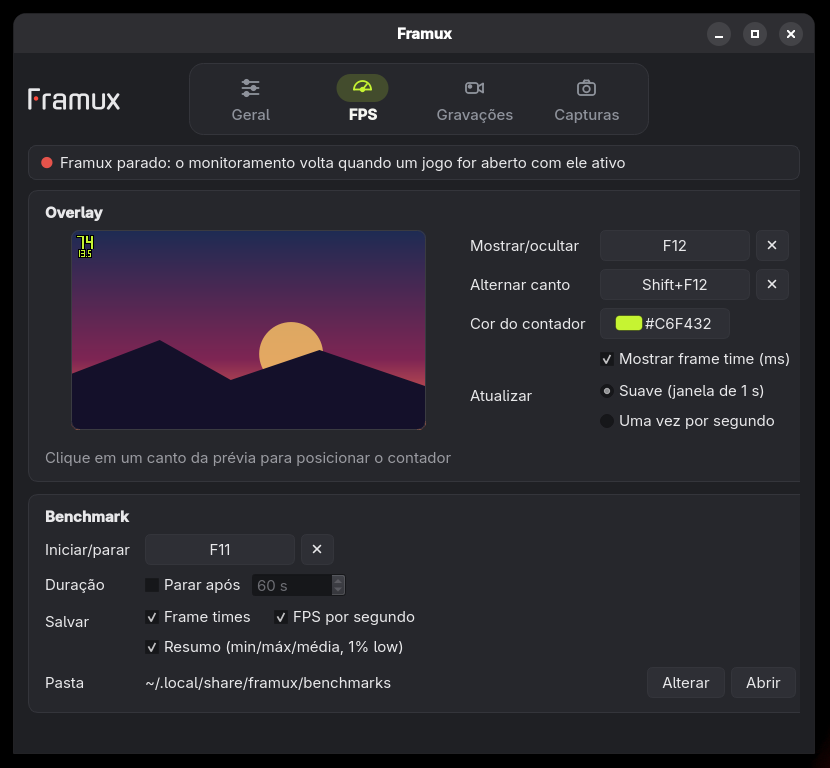
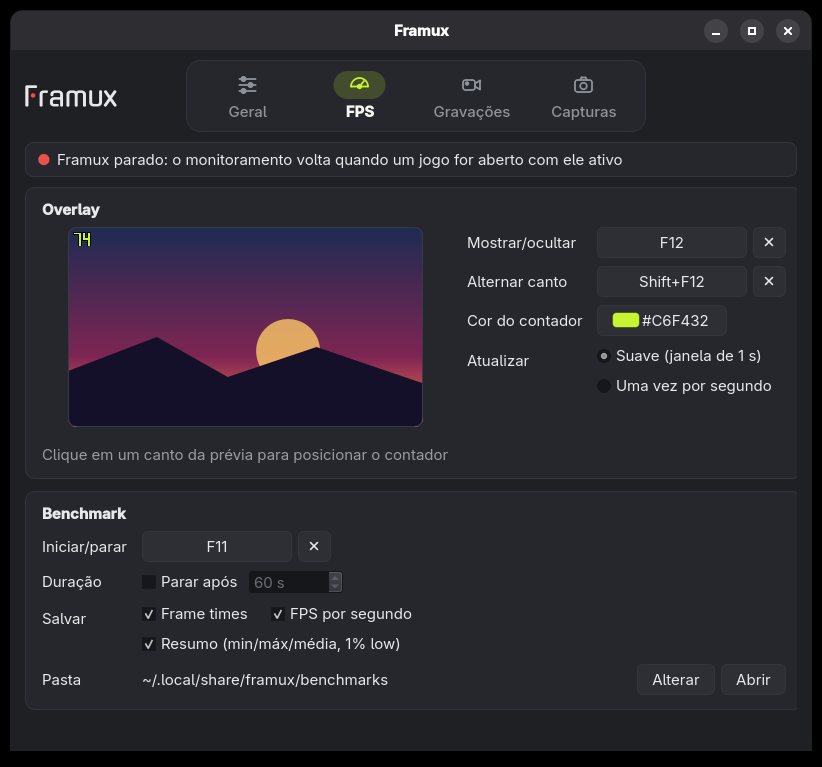
docs: documenta a gravação do microfone e atualiza as capturas da janela

diff --git a/README.md b/README.md
@@ -85,7 +85,7 @@
     <td width="50%" valign="top">
       <img src="assets/images/framux-gravacoes.png" alt="Aba Gravações, com codificador, qualidade, estimativa de taxa e gravações recentes" width="100%">
       <h3>Gravação moderna</h3>
-      AV1 ou H.264 pela placa de vídeo, SVT-AV1 ou x264 pelo processador, ou Ut Video sem perda. MKV que sobrevive a travamentos, MP4 por remux e o áudio <i>só</i> do jogo, via PipeWire.
+      AV1 ou H.264 pela placa de vídeo, SVT-AV1 ou x264 pelo processador, ou Ut Video sem perda. MKV que sobrevive a travamentos, MP4 por remux, o áudio <i>só</i> do jogo e o microfone, via PipeWire.
     </td>
     <td width="50%" valign="top">
       <img src="assets/images/framux-capturas.png" alt="Aba Capturas, com formato, qualidade, série automática e miniaturas" width="100%">
@@ -143,12 +143,12 @@ Tudo pode ser trocado na janela: clique no botão do atalho e pressione a tecla 
 
 ### A janela
 
-| Aba       | O que tem                                                                                                                                                                                                        |
-| --------- | ---------------------------------------------------------------------------------------------------------------------------------------------------------------------------------------------------------------- |
-| Geral     | modo automático, abrir ao entrar na sessão, iniciar minimizado, bandeja; à direita, o estado do ambiente e "Parar o Framux"                                                                                      |
-| FPS       | prévia clicável do canto do overlay, atalhos, cor do contador, frame time, modo de atualização; benchmark: atalho, duração, arquivos, pasta                                                                      |
-| Gravações | atalho, FPS do vídeo (30/60/outro), tamanho cheio ou metade, codificador (só os detectados nesta máquina; aviso quando usa o processador), qualidade, converter para MP4, pasta, som do jogo, gravações recentes |
-| Capturas  | atalho, formato (PNG/JPG/BMP/TGA) e qualidade, incluir contador, série a cada N s, pasta e miniaturas                                                                                                            |
+| Aba       | O que tem                                                                                                                                                                                                                                                                   |
+| --------- | --------------------------------------------------------------------------------------------------------------------------------------------------------------------------------------------------------------------------------------------------------------------------- |
+| Geral     | modo automático, abrir ao entrar na sessão, iniciar minimizado, bandeja; à direita, o estado do ambiente e "Parar o Framux"                                                                                                                                                 |
+| FPS       | prévia clicável do canto do overlay, atalhos, cor do contador, modo de atualização; benchmark: atalho, duração, arquivos, pasta                                                                                                                                             |
+| Gravações | atalho, FPS do vídeo (30/60/outro), tamanho cheio ou metade, codificador (só os detectados nesta máquina; aviso quando usa o processador), qualidade, converter para MP4, pasta, som do jogo e microfone (volumes, medidor de nível, trilhas separadas), gravações recentes |
+| Capturas  | atalho, formato (PNG/JPG/BMP/TGA) e qualidade, incluir contador, série a cada N s, pasta e miniaturas                                                                                                                                                                       |
 
 As alterações vão para o `config.toml` na hora e chegam aos jogos já abertos. Fechar a janela não para o monitoramento: com bandeja, o Framux fica no ícone (no GNOME, a bandeja exige a extensão AppIndicator).
 
@@ -180,7 +180,7 @@ framux config default                 # config padrão comentável
 
 ## Gravação
 
-Gravações em `$XDG_VIDEOS_DIR/framux/<jogo> AAAA-MM-DD HH-MM-SS-cc.mkv` (ou `.mp4` com _Converter para MP4_): vídeo em taxa constante e a trilha "Game" em Opus 48 kHz estéreo. O MKV é escrito durante a gravação, então sobrevive se o jogo travar; o MP4 é um remux dele ao parar, sem recodificar (Ut Video fica em MKV). Uma notificação mostra o arquivo, a duração e o tamanho.
+Gravações em `$XDG_VIDEOS_DIR/framux/<jogo> AAAA-MM-DD HH-MM-SS-cc.mkv` (ou `.mp4` com _Converter para MP4_): vídeo em taxa constante e o áudio em Opus 48 kHz estéreo. O MKV é escrito durante a gravação, então sobrevive se o jogo travar; o MP4 é um remux dele ao parar, sem recodificar (Ut Video fica em MKV). Uma notificação mostra o arquivo, a duração e o tamanho.
 
 | Codificador            | Encoders do FFmpeg                                                                      | Observação                                                                                                                                     |
 | ---------------------- | --------------------------------------------------------------------------------------- | ---------------------------------------------------------------------------------------------------------------------------------------------- |
@@ -205,6 +205,17 @@ O `ffmpeg-free` (usado por VLC, Totem e afins) decodifica H.264 só pelo openh26
 </details>
 
 **Áudio só do jogo.** O som vem apenas do processo do jogo (`application.process.id` no PipeWire, inclusive Wine/Proton e o Steam Flatpak): música, chamadas e avisos de outros programas ficam de fora.
+
+**Microfone.** Em _Áudio_, na aba Gravações, _Gravar o microfone_ grava a fonte escolhida na lista (ou a padrão do sistema), com volume próprio de 0 a 100 % para o jogo e para o microfone. O volume vale só na gravação, sem mexer no do sistema, e mudanças durante a gravação valem na hora. O medidor de nível mostra o microfone enquanto a aba está aberta. As trilhas ficam assim:
+
+| Gravando          | Trilhas                                                                             |
+| ----------------- | ----------------------------------------------------------------------------------- |
+| só o jogo         | "Game"                                                                              |
+| só o microfone    | "Microphone"                                                                        |
+| jogo e microfone  | "Mix", com os dois juntos (é a que players, navegadores e o Discord tocam)          |
+| … com _separadas_ | "Mix" e mais "Game" e "Microphone", para ajustar a voz e o jogo num editor de vídeo |
+
+Se o microfone escolhido for desconectado, a gravação continua com o padrão do sistema.
 
 **Medindo o custo.** Ao parar, o log do daemon (`journalctl --user -u framuxd`) traz uma linha `medição da gravação`: FPS do jogo (média e 1 % low) nos 10 s antes e durante a gravação, quanto a cópia de cada quadro levou na thread do jogo e quantos núcleos o `framuxd` usou. Junto com a linha `gravação salva` (quadros repetidos e descartados), diz se a gravação está pesando no jogo.
 
@@ -265,19 +276,19 @@ Feche e abra o Steam depois de mudar. As cópias são renovadas quando a janela 
 ## Estado do projeto
 
 > [!IMPORTANT]
-> O Framux está em **alfa**. Contador, benchmark, screenshots, gravação com o áudio do jogo e a janela de configuração funcionam; loop recording, microfone e áudio do sistema ainda não. Encontrou um problema? Abra uma [issue](https://github.com/viniciussoaresbr/framux/issues) com a saída de `framux doctor`, o jogo, a API (Vulkan/OpenGL/Proton) e sua GPU.
+> O Framux está em **alfa**. Contador, benchmark, screenshots, gravação com o áudio do jogo e o microfone e a janela de configuração funcionam; loop recording, push-to-talk e áudio do sistema ainda não. Encontrou um problema? Abra uma [issue](https://github.com/viniciussoaresbr/framux/issues) com a saída de `framux doctor`, o jogo, a API (Vulkan/OpenGL/Proton) e sua GPU.
 
-| Marco | Conteúdo                                                                                                       | Estado                                                      |
-| ----- | -------------------------------------------------------------------------------------------------------------- | ----------------------------------------------------------- |
-| M0    | Meson, testes, CI (container Fedora, lavapipe/llvmpipe), clang-format                                          | ✅                                                          |
-| M1    | Camada Vulkan: timestamps, overlay de segmentos, config local, `framux run`                                    | ✅                                                          |
-| M2    | Daemon, IPC + ring, benchmark, hotkeys X11 e in-game, CLI                                                      | ✅                                                          |
-| M3    | Shim OpenGL (GLX/EGL, `dlsym`), build i686                                                                     | ✅                                                          |
-| M4    | Screenshots (staging Vulkan / PBO GL, conversões, PNG/JPEG/BMP/TGA, repetição)                                 | ✅                                                          |
-| M5    | Vídeo (NVENC, VA-API, SVT-AV1, Ut Video), MKV/MP4, metade do tamanho, taxa constante, áudio do jogo (PipeWire) | ✅ falta microfone, push-to-talk, áudio do sistema          |
-| M6    | Loop recording, zero-copy DMA-BUF, lock fps                                                                    | ⏳ próxima etapa                                            |
-| M7    | GUI Qt 6: abas, bandeja, modo automático                                                                       | ✅ falta visualizador de benchmarks, portal GlobalShortcuts |
-| M8    | COPR/Flatpak, documentação de usuário                                                                          | 🟡 parcial (RPM pronto)                                     |
+| Marco | Conteúdo                                                                                                                   | Estado                                                      |
+| ----- | -------------------------------------------------------------------------------------------------------------------------- | ----------------------------------------------------------- |
+| M0    | Meson, testes, CI (container Fedora, lavapipe/llvmpipe), clang-format                                                      | ✅                                                          |
+| M1    | Camada Vulkan: timestamps, overlay de segmentos, config local, `framux run`                                                | ✅                                                          |
+| M2    | Daemon, IPC + ring, benchmark, hotkeys X11 e in-game, CLI                                                                  | ✅                                                          |
+| M3    | Shim OpenGL (GLX/EGL, `dlsym`), build i686                                                                                 | ✅                                                          |
+| M4    | Screenshots (staging Vulkan / PBO GL, conversões, PNG/JPEG/BMP/TGA, repetição)                                             | ✅                                                          |
+| M5    | Vídeo (NVENC, VA-API, SVT-AV1, Ut Video), MKV/MP4, metade do tamanho, taxa constante, áudio do jogo e microfone (PipeWire) | ✅ falta push-to-talk, áudio do sistema                     |
+| M6    | Loop recording, zero-copy DMA-BUF, lock fps                                                                                | ⏳ próxima etapa                                            |
+| M7    | GUI Qt 6: abas, bandeja, modo automático                                                                                   | ✅ falta visualizador de benchmarks, portal GlobalShortcuts |
+| M8    | COPR/Flatpak, documentação de usuário                                                                                      | 🟡 parcial (RPM pronto)                                     |
 
 O loop recording (`framux loop`, `[hotkeys] loop_save`) ainda responde "indisponível" (o overlay mostra `-`).
 
@@ -331,8 +342,8 @@ Sem `qt6-qtbase-devel` a GUI é pulada (`-Dgui=enabled` a torna obrigatória).
 - **gl-state** — overlay num contexto GL core com estado "sujo": estado e `glGetError` do jogo intactos, overlay presente na janela;
 - **layer-validation** — app Vulkan com a camada e a validation layer Khronos;
 - **e2e-\*** — daemon + camada/shim + CLI reais num Xvfb com D-Bus isolado: Vulkan e GL (benchmark e screenshots com/sem overlay), jogo morto no meio do benchmark, daemon caindo/voltando, hotkeys in-game via XTest, modo automático (app comum intocado, jogo da Steam vira sessão), mudança no `config.toml` chegando ao jogo aberto e gravação (Vulkan com MP4 e cor convertida na GPU sob a camada de validação, inteiro e na metade, cores conferidas pixel a pixel; GL em Ut Video na metade do tamanho, jogo morto no meio, F9);
-- **recorder** — gravador com quadros e áudio sintéticos: buraco de quadros vira repetição, trilha Opus, duração, remux para MP4, nada de arquivo vazio, cores BT.709 e orientação, NV12 vindo da GPU, pixels exatos no sem perda;
-- **audio-capture** — PipeWire + WirePlumber privados: um seno tocado pelo próprio processo é achado pelo PID e capturado;
+- **recorder** — gravador com quadros e áudio sintéticos: buraco de quadros vira repetição, trilha Opus, duração, remux para MP4, nada de arquivo vazio, cores BT.709 e orientação, NV12 vindo da GPU, pixels exatos no sem perda, mixagem do jogo com o microfone (volume, microfone desconectado, trilhas separadas);
+- **audio-capture** — PipeWire + WirePlumber privados: um seno tocado pelo próprio processo é achado pelo PID e capturado; uma fonte mono de teste aparece na lista de microfones da janela, no medidor e é gravada em estéreo;
 - **gui** — janela em `QT_QPA_PLATFORM=offscreen` com cliques e teclas simulados: canto pela prévia, atalhos por teclado e mouse, atalho repetido recusado, formato, confirmação Sim/Não, modo automático e recarga de mudança externa.
 
 O build i686 roda `gl-state` e `layer-validation` em 32 bits. `framux-gui --snapshot <pasta>` salva imagens das quatro abas.
@@ -355,14 +366,14 @@ O build i686 roda `gl-state` e `layer-validation` em 32 bits. `framux-gui --snap
                                                  framux (CLI)┘
 ```
 
-| Diretório                | Papel                                                                                                                                                   |
-| ------------------------ | ------------------------------------------------------------------------------------------------------------------------------------------------------- |
-| `src/common`             | protocolo IPC, ring, config TOML, contador de FPS, fonte de segmentos e máquina de estados do overlay                                                   |
-| `src/client`             | runtime por processo da camada/shim: thread de IPC, reconexão, leitura de teclas in-game via xcb (`dlopen`)                                             |
-| `src/layer`, `src/gl`    | camada Vulkan e shim OpenGL                                                                                                                             |
-| `src/core`               | estatísticas, formatos de benchmark, conversão/codificação de imagens, arbitragem                                                                       |
-| `src/daemon`, `src/cli`  | `framuxd` e `framux`; gravação (`recorder.cpp`, FFmpeg) e áudio do jogo (`game_audio.cpp`, PipeWire) numa biblioteca à parte, usada também pelos testes |
-| `include/framux/stats.h` | struct pública em `$XDG_RUNTIME_DIR/framux/stats`                                                                                                       |
+| Diretório                | Papel                                                                                                                                                                                |
+| ------------------------ | ------------------------------------------------------------------------------------------------------------------------------------------------------------------------------------ |
+| `src/common`             | protocolo IPC, ring, config TOML, contador de FPS, fonte de segmentos e máquina de estados do overlay                                                                                |
+| `src/client`             | runtime por processo da camada/shim: thread de IPC, reconexão, leitura de teclas in-game via xcb (`dlopen`)                                                                          |
+| `src/layer`, `src/gl`    | camada Vulkan e shim OpenGL                                                                                                                                                          |
+| `src/core`               | estatísticas, formatos de benchmark, conversão/codificação de imagens, arbitragem                                                                                                    |
+| `src/daemon`, `src/cli`  | `framuxd` e `framux`; gravação (`recorder.cpp`, FFmpeg), áudio do jogo (`game_audio.cpp`) e microfone (`mic_audio.cpp`, PipeWire) numa biblioteca à parte, usada também pelos testes |
+| `include/framux/stats.h` | struct pública em `$XDG_RUNTIME_DIR/framux/stats`                                                                                                                                    |
 
 ## Decisões de implementação
 
@@ -373,6 +384,7 @@ O build i686 roda `gl-state` e `layer-validation` em 32 bits. `framux-gui --snap
 - **Vídeo sem o contador.** A cópia acontece antes do overlay, como no screenshot padrão; o contador fica vermelho só na tela.
 - **AV1 antes de H.264 no automático, sem HEVC.** Ver a tabela de codificadores: no Fedora sem RPM Fusion só AV1 toca liso em alta resolução.
 - **Áudio por ligações manuais no PipeWire.** O stream de captura não tem autoconnect; o daemon liga a ele só as saídas cujo nó (pipewire-pulse) ou client (streams nativos) tem o PID do jogo, incluindo as abertas durante a gravação. Buracos (jogo em silêncio) viram silêncio no arquivo, para o áudio não adiantar em relação ao vídeo.
+- **Mixagem no daemon, não no PipeWire.** Jogo e microfone chegam por streams separados e ficam alinhados pelo relógio de cada bloco. O trecho que os dois já cobrem é mixado (soma limitada a ±1) e codificado em cada trilha. Uma fonte que atrasa mais de 0,5 s em relação à outra (jogo calado, microfone desconectado) é completada com silêncio, para a mixagem não esperar por ela. O volume é aplicado quando o bloco chega, então uma mudança vale na hora. O microfone é ligado pelo WirePlumber (`target.object`), e um microfone mono vai para os dois canais.
 - **Nome da camada por arquitetura** (`VK_LAYER_FRAMUX_overlay_x86_64` e `VK_LAYER_FRAMUX_overlay_i686`, não `VK_LAYER_FRAMUX_overlay`): com os dois manifestos instalados e o mesmo nome, o loader pega o de 32 bits num processo 64 bits, rejeita ("wrong bit-type") e descarta o outro como duplicado. Para desligar use `DISABLE_FRAMUX=1`, que vale para os dois.
 - **libstdc++ estática na camada e no shim** (`-static-libstdc++ -static-libgcc -Wl,--exclude-libs,ALL`): eles rodam dentro do jogo, que pode trazer outra libstdc++ (runtime da Steam, Flatpak); assim só dependem da libc (≥ 2.38).
 - **Steam Flatpak por cópias e override, não extensão Flatpak**: uma extensão `org.freedesktop.Platform.VulkanLayer.*` exigiria publicar no Flathub; as cópias em `~/.var/app` ficam no mesmo caminho dentro do sandbox e dos containers da Steam (pressure-vessel) e funcionam com o RPM.
